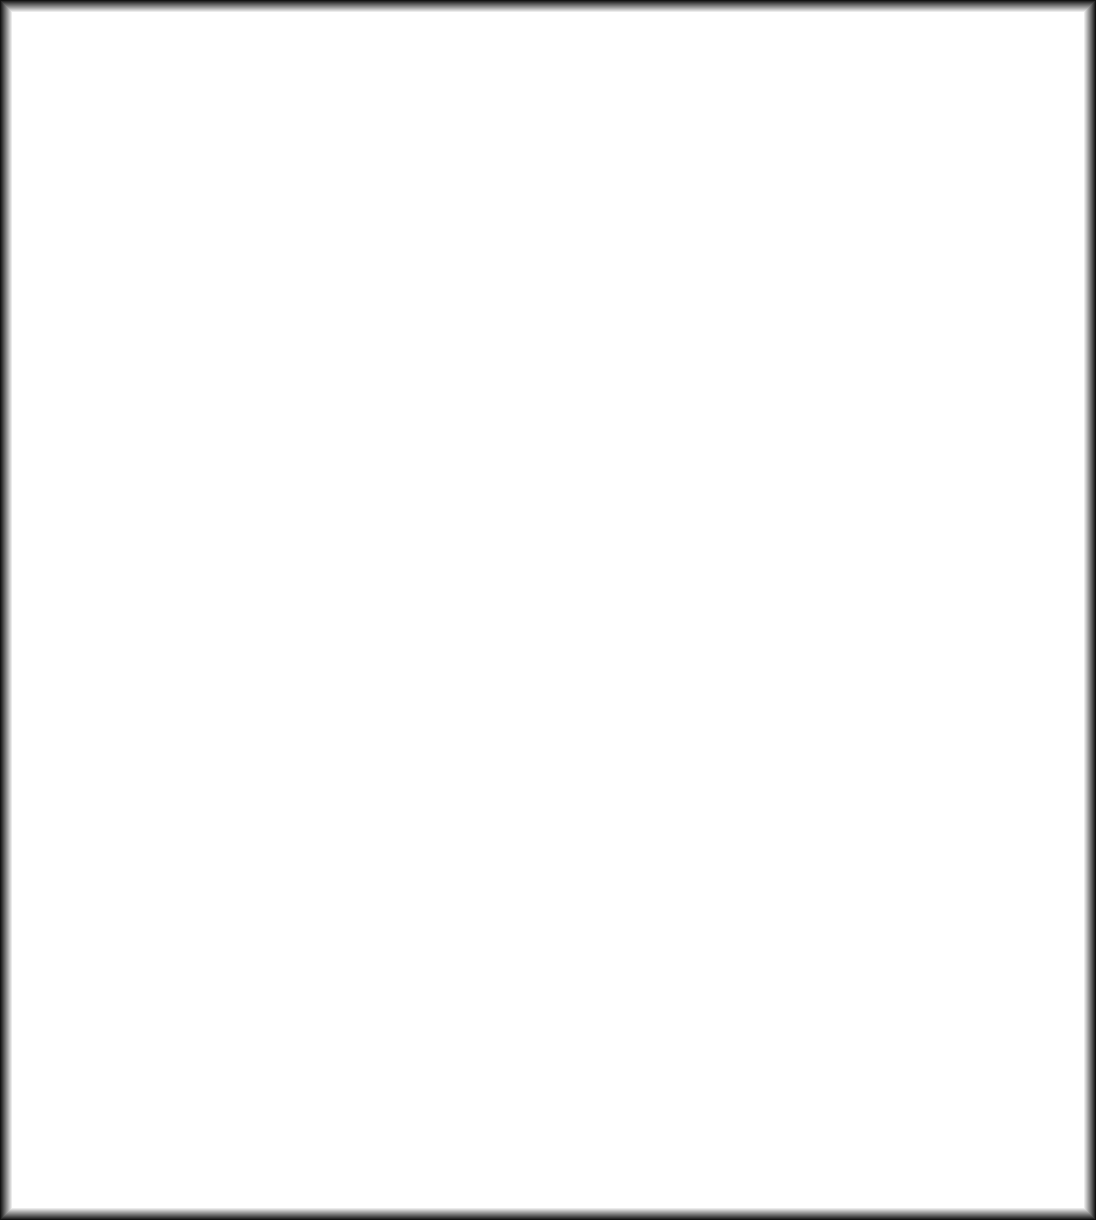
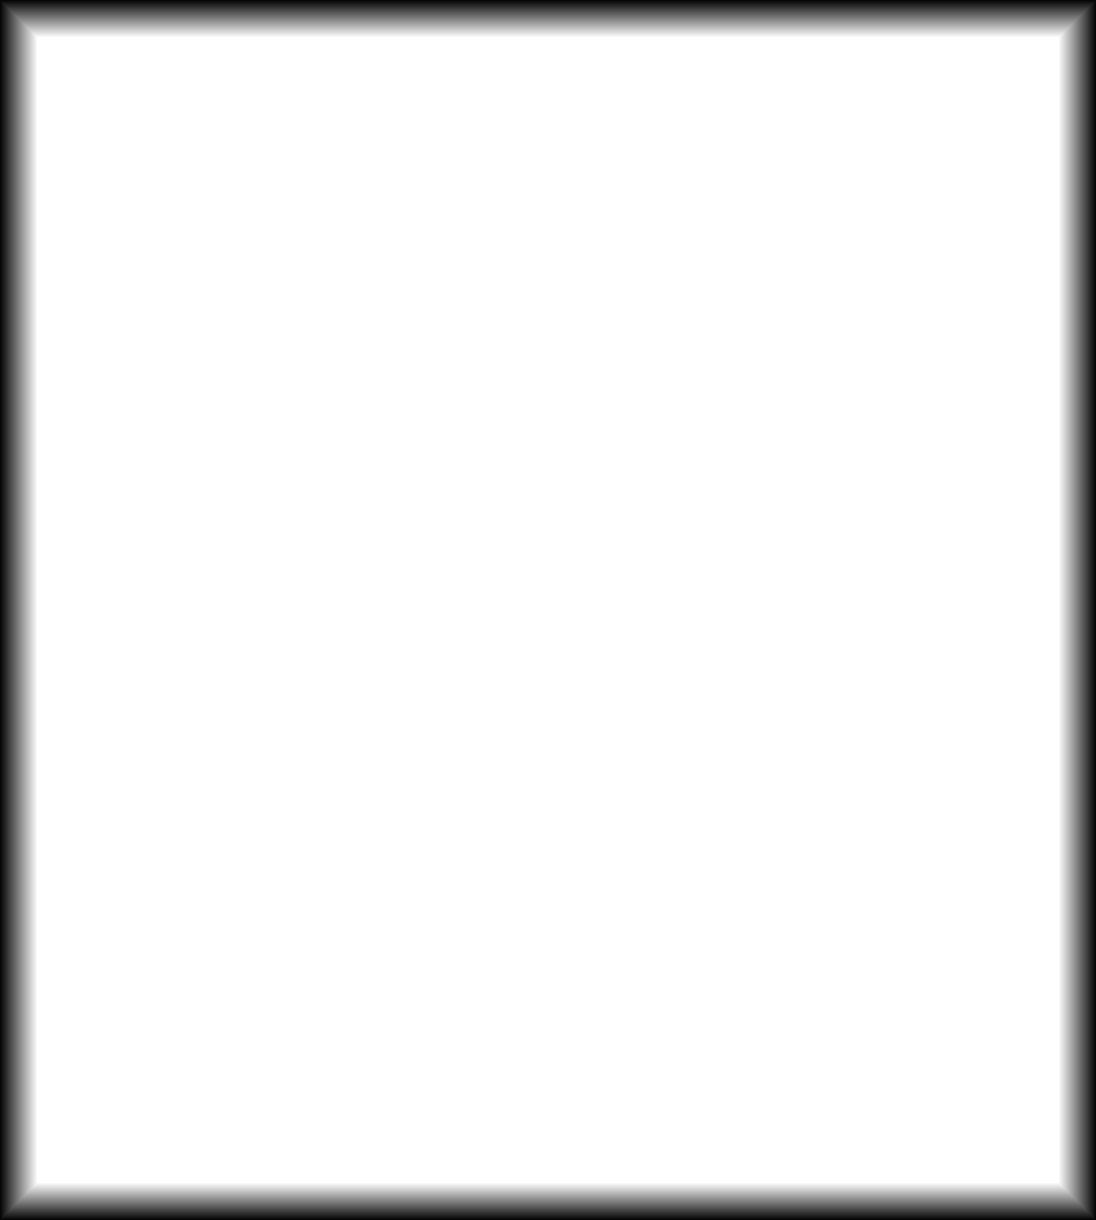
카페 왼쪽 · 문 창: 판을 사방 4% 안쪽으로 · 가장자리 부드럽게(비스듬히 볼 때 실제 창틀을 덮던 것)

Changed region(s): [[0.0, 0.0, 1.0, 1.0]]

diff --git a/design/experience-v3/xr8/index.html b/design/experience-v3/xr8/index.html
@@ -84,8 +84,8 @@ document.getElementById('close').addEventListener('click', function () { if (win
     //   front = { depth: 그림보다 앞(창 폭 단위, 현장 사진 12장 시차 0.151), ext: 창 영역 대비 판 크기, k: 그 깊이에서의 크기(정면 카메라 거리 기준 1/1.084) }
     // 11/28 왼쪽 창(cafe1) · 가운데 문 창(cafe2) — 오른쪽 창과 같은 방식: 11/25 전체 벽 영상(글 없는 원본, tools/xr8/gen/cafe_veo31fast_6s_v4cycle.mp4)을 창 자리대로 자르고
     //   현장 영상(11/28 23:46) 정면 프레임의 유리 + 얇은 창틀(왼쪽은 창살도)을 입혀 그 영상 시차로 잰 창틀 깊이(문 74.5 · 왼쪽 94.3, 원본 그림 px)에 띄움 — tools/xr8/make_cafe12.py. off = 판 가운데가 유리 가운데에서 벗어난 만큼(유리 크기 단위, 아래 +)
-    cafe1: { src: 'cafe1_framed.mp4', ref: 'cafe1_framed_ref.jpg', px: [1096, 1220], ownText: true, full: true, mask: 'cafe1_edge.png', front: { depth: 0.1721, ext: [1.0, 1.0], k: 0.8934, off: [-0.0013, 0.0017] } },   /* 11/29 판 = 유리만(창틀 · 창살은 실제 카메라) */
-    cafe2: { src: 'cafe2_framed.mp4', ref: 'cafe2_framed_ref.jpg', px: [470, 1050], ownText: true, full: true, mask: 'cafe2_edge.png', front: { depth: 0.317, ext: [1.0, 1.0], k: 0.8956, off: [-0.0043, -0.0025] } },   /* 11/29 판 = 유리만(창틀 · 창살은 실제 카메라) */
+    cafe1: { src: 'cafe1_framed.mp4', ref: 'cafe1_framed_ref.jpg', px: [1096, 1220], ownText: true, full: true, mask: 'cafe1_edge.png', front: { depth: 0.1721, ext: [0.92, 0.92], k: 0.8934, off: [-0.0013, 0.0017] } },   /* 11/29 판 = 유리만 · 사방 4% 안쪽(비스듬히 · 가까이서 실제 창틀을 덮지 않게 — 틈은 뒤의 같은 그림) */
+    cafe2: { src: 'cafe2_framed.mp4', ref: 'cafe2_framed_ref.jpg', px: [470, 1050], ownText: true, full: true, mask: 'cafe2_edge.png', front: { depth: 0.317, ext: [0.92, 0.92], k: 0.8956, off: [-0.0043, -0.0025] } },   /* 11/29 판 = 유리만 · 사방 4% 안쪽(비스듬히 · 가까이서 실제 창틀을 덮지 않게 — 틈은 뒤의 같은 그림) */
     cafe3: { src: 'cafe3_framed.mp4', ref: 'cafe3_framed_ref.jpg', px: [900, 1008], ownText: true, full: true, mask: 'cafe3_framed_edge.png',
       front: { depth: 0.151, ext: [1829 / 1387, 2048 / 1600], k: 0.922 } } };
   var $ = function (id) { return document.getElementById(id); };
